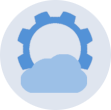
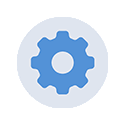
Endpoints, Attributes, and their Associations to different Products and the UI

diff --git a/app/assets/stylesheets/application.scss b/app/assets/stylesheets/application.scss
@@ -13,10 +13,13 @@
  *= require_tree .
  *= require_self
  */
+ @import 'bootstrap';
+ @import url('//fonts.googleapis.com/css2?family=Open+Sans:ital,wght@0,300..800;1,300..800&display=swap');
+
 body {
     margin: 0;
     padding: 0;
-    font-family:'Lucida Sans', 'Lucida Sans Regular', 'Lucida Grande', 'Lucida Sans Unicode', Geneva, Verdana, sans-serif
+    font-family: 'Open-Sans', sans-serif;
 }
  ul {
     list-style-type: none;
@@ -50,10 +53,15 @@ body {
     align-items: center;
     h1 {
         margin-top: 0;
+        font-weight: 300;
     }
  }
 
  .product_association {
     width: 40%;
     text-align: center;
+    h3 {
+        color: #5392d7;
+        font-weight: 300;
+    }
  }

diff --git a/README.md b/README.md
@@ -8,3 +8,6 @@
     - Using 'Unassociated' as a product type for now to allow the DB to seed with the current associations in place between product and associated_attr
     - Making the final changes to start adding information to the prod DB for ActionLog
     - Updating front end to display the content appropriately
+        - Bootstrap and related libraries implemented
+        - Added "Open Sans" font from Google library, set some basic styling to more closely match our help center
+        - Replaced the images with those from the help center
